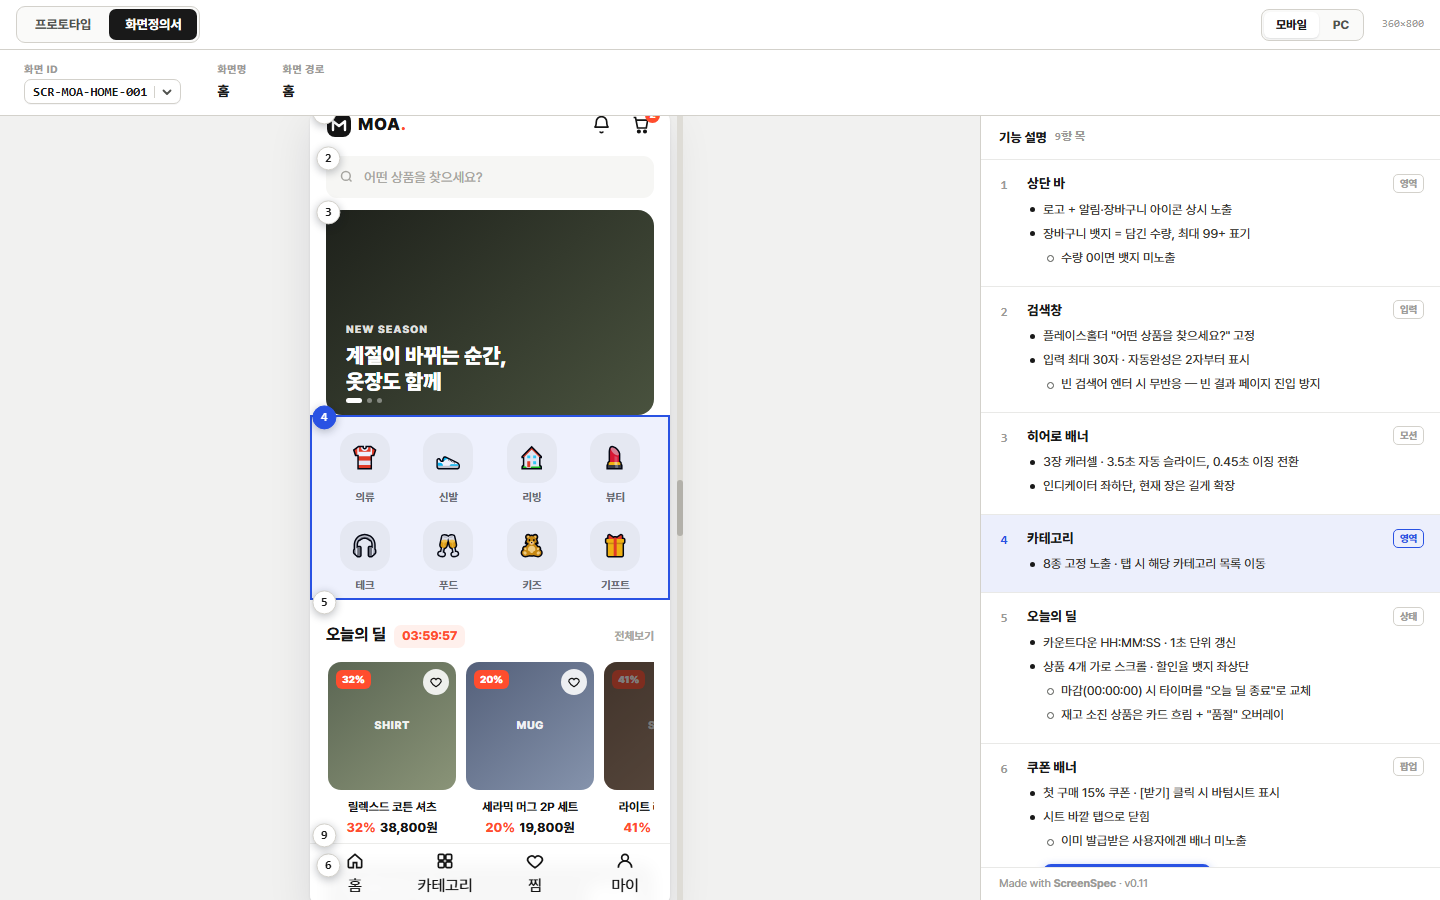
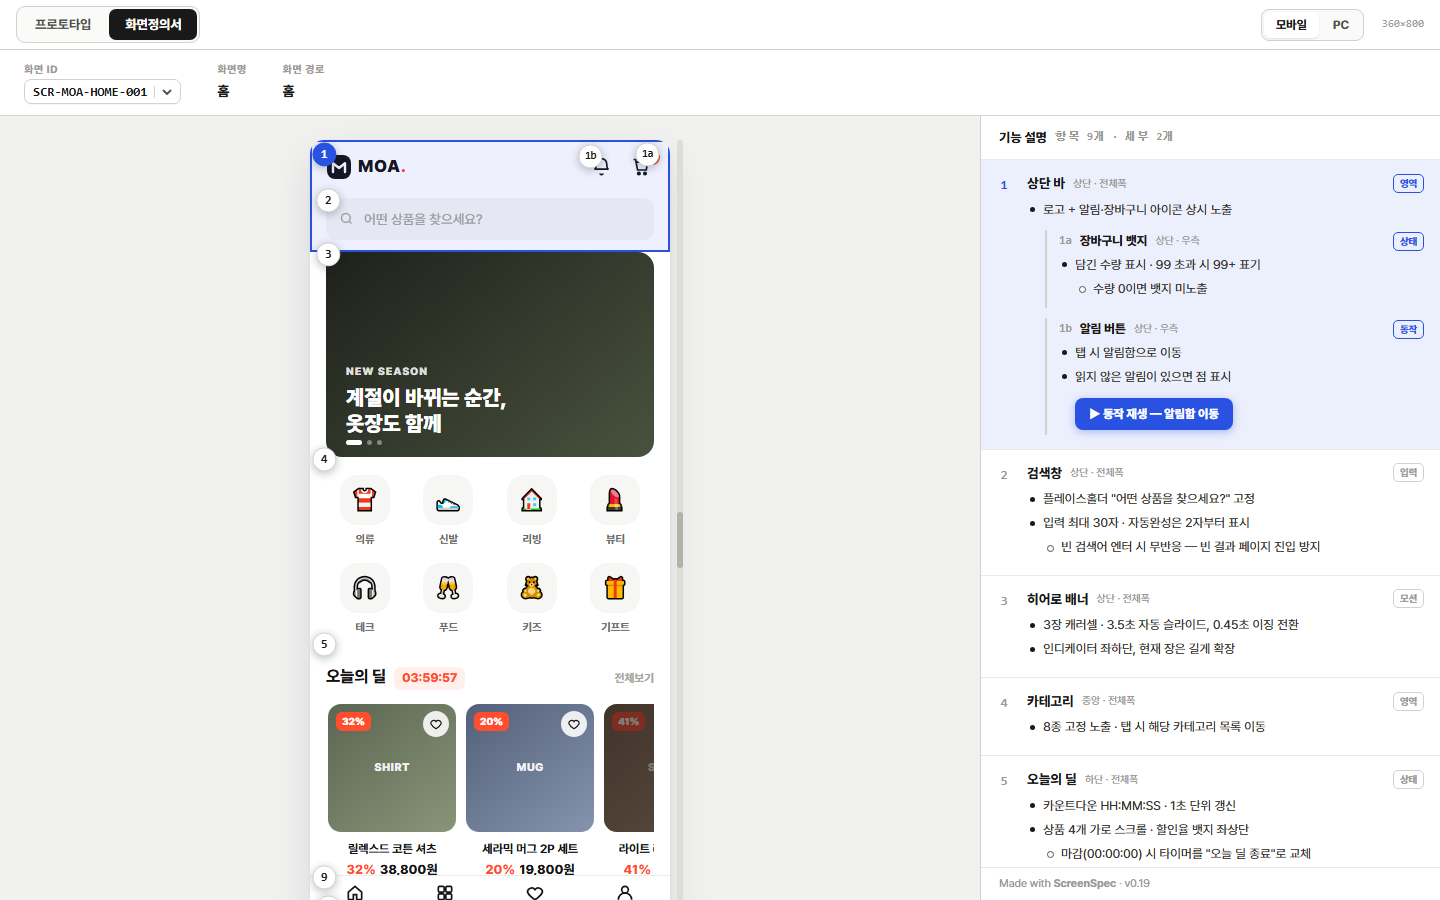
docs: v0.19.1 - README reorder (deliver/off after modes), preview in README+flagship demo, v0.19 screenshots, AGENTS release steps, lint stale terms + CRLF-safe Part gate

diff --git a/examples/shop.html b/examples/shop.html
@@ -363,6 +363,7 @@ setInterval(() => {
 /* 타임딜 카운트다운 */
 let remain = 3*3600 + 59*60 + 59;
 setInterval(() => {
+  if (dealClosed) return;
   remain = Math.max(0, remain - 1);
   const h = String(Math.floor(remain/3600)).padStart(2,"0");
   const m = String(Math.floor(remain%3600/60)).padStart(2,"0");
@@ -414,16 +415,29 @@ document.getElementById("optRow").addEventListener("click",(e)=>{
   o.classList.add("on");
 });
 document.getElementById("buyBtn").onclick = ()=>toast("장바구니에 담았어요 · 2개");
+
+/* ScreenSpec preview — 정의서의 스위치가 이 상태를 실물로 재현한다 */
+let dealClosed = false;
+addEventListener("screenspec:preview", (e) => {
+  if (String(e.detail.n) !== "5") return;   /* n 은 라벨 문자열 — 하위 요소면 "1a" 같은 값 */
+  e.detail.handled = true;
+  dealClosed = e.detail.on;
+  document.getElementById("timer").textContent = dealClosed ? "오늘 딜 종료" : "03:59:59";
+  if (!dealClosed) remain = 3*3600 + 59*60 + 59;
+});
 </script>
 
 <!-- ==================== ScreenSpec 적용 ==================== -->
 <script>
 window.SCREENSPEC = {
   mode: "wrap",
+  checklist: ["빈 상태", "오류"],   /* 이 프로젝트가 화면마다 챙기기로 한 상태 축 */
   screens: [
     {
       id: "SCR-MOA-HOME-001", name: "홈", path: ["홈"],
       root: '[data-ss-screen="SCR-MOA-HOME-001"]',
+      covers: ["빈 상태"],                       /* 딜 마감·품절을 5번 항목에 적었다 */
+      skip: { "오류": "홈은 정적 구성이라 서버 오류 분기가 없음 — 오류는 상세(PDP)에서 다룬다" },
       specs: [
         { n:1, target:"1", anno:"box", title:"상단 바", defs:[
           { t:"로고 + 알림·장바구니 아이콘 상시 노출" }],
@@ -444,7 +458,7 @@ window.SCREENSPEC = {
           { t:"인디케이터 좌하단, 현재 장은 길게 확장" }]},
         { n:4, target:"4", anno:"box", title:"카테고리", defs:[
           { t:"8종 고정 노출 · 탭 시 해당 카테고리 목록 이동" }]},
-        { n:5, target:"5", anno:"state", title:"오늘의 딜", defs:[
+        { n:5, target:"5", anno:"state", title:"오늘의 딜", preview:{ label:"딜 마감 상태 보기" }, defs:[
           { t:"카운트다운 HH:MM:SS · 1초 단위 갱신" },
           { t:"상품 4개 가로 스크롤 · 할인율 뱃지 좌상단", subs:[
             "마감(00:00:00) 시 타이머를 \"오늘 딜 종료\"로 교체",

diff --git a/tests/lint.js b/tests/lint.js
@@ -96,7 +96,7 @@ check("LICENSE 존재", fs.existsSync(path.join(REPO, "LICENSE")));
 
 /* 7) 문서 드리프트 — 폐기된 설계의 용어·클래스가 살아 있으면 에이전트가 옛 구조를 믿는다 */
 {
-  const STALE = /커맨드 팔레트|브레드크럼|섹션 라벨|centerOf|ss-toc-(sec|crumb|main)|private이므로|SpecLayer(?![^\n]*(별칭|alias|호환|legacy))/g;
+  const STALE = /커맨드 팔레트|브레드크럼|섹션 라벨|centerOf|ss-toc-(sec|crumb|main)|private이므로|panel:\s*"left"(?![^\n]*(폐기|deprecated))|상위 \d+ · 하위|패널 ⇄|SpecLayer(?![^\n]*(별칭|alias|호환|legacy))/g;
   for (const f of ["README.md", "SKILL.md", "screenspec.js"]) {
     const d = fs.readFileSync(path.join(REPO, f), "utf8");
     const hits = [...d.matchAll(STALE)].map((m) => m[0]);
@@ -174,7 +174,7 @@ check("LICENSE 존재", fs.existsSync(path.join(REPO, "LICENSE")));
   const want = spec.filter((f) => f !== "n" && f !== "parts");
   const missType = want.filter((f) => !part.includes(f));
   check("Part 타입에 Spec 필드 전부 (" + want.length + "개)", missType.length === 0, "누락: " + JSON.stringify(missType));
-  const sec = (ref.split(/\n### Part\n/)[1] || "").split(/\n## /)[0];
+  const sec = (ref.split(/\r?\n### Part\r?\n/)[1] || "").split(/\r?\n## /)[0];
   check("### Part 절 존재", sec.length > 100, String(sec.length));
   const missRow = want.filter((f) => !sec.includes("`" + f + "`"));
   check("### Part 표에 Spec 필드 전부", missRow.length === 0, "누락: " + JSON.stringify(missRow));

diff --git a/SKILL.md b/SKILL.md
@@ -92,7 +92,7 @@ Next.js 등 프레임워크 기반이면 화면을 감싸지 않는 오버레이
 import Script from "next/script";
 // <body> 안:
 <Script id="screenspec-config" strategy="afterInteractive">{`window.SCREENSPEC = {...}`}</Script>
-<Script src="https://cdn.jsdelivr.net/gh/charmisuk/screenspec@v0.19.0/screenspec.js" strategy="afterInteractive" />
+<Script src="https://cdn.jsdelivr.net/gh/charmisuk/screenspec@v0.19.1/screenspec.js" strategy="afterInteractive" />
 ```
 
 - `data-spec` 속성은 JSX 요소에 그대로 (`data-spec="1"`)
@@ -336,7 +336,7 @@ addEventListener("screenspec:preview", (e) => {
 - [ ] `data-spec` 없는 specs 항목 없음 (마커가 숨겨지면 이것)
 - [ ] 각 화면에 빈 상태·로딩·오류를 적었는가 (해당 없으면 «없음» 을 명시했는가) — 보이는 것에만 마커를 달게 되므로 안 보이는 상태는 의식적으로 묻는다 (`checklist` 를 쓰면 목차의 ⚠ 가 0이 될 때까지)
 - [ ] 헤더의 화면 ID 칩 클릭 → 화면 목록 트리가 path 계층대로 열림 (그룹 행·뎁스 확인)
-- [ ] `preview` 를 준 항목마다 프로토타입에 `screenspec:preview` 리스너를 심었는가 (◑ 버튼을 눌러 실제로 상태가 바뀌는지 — 「만들지 못합니다」가 뜨면 리스너가 없는 것)
+- [ ] `preview` 를 준 항목마다 프로토타입에 `screenspec:preview` 리스너를 심었는가 (preview 스위치를 켜서 실제로 상태가 바뀌는지 — 「만들지 못합니다」가 뜨면 리스너가 없는 것)
 - [ ] arrow 항목 클릭 시 지시선이 대상 요소를 실제로 가리킴 (큰 영역에 arrow를 쓰지 않았는지)
 - [ ] accent를 지정했다면 마커·하이라이트·버튼 색이 함께 바뀌었는지
 - [ ] 전달할 결과물이면 `.inline.html`을 뽑았는지 (명령이 "검증 통과"를 출력했는지)

diff --git a/CHANGELOG.md b/CHANGELOG.md
@@ -1,5 +1,15 @@
 # Changelog
 
+## v0.19.1 (2026-08-24)
+
+문서·예제 정비 (라이브러리 동작 변화 없음).
+
+- **README 재배치** — 「만든 뒤 — 전달과 공개」를 모드·문법 소개 **뒤**로 (처음 읽는 사람이 `screens`도 모른 채 off·inline 을 만나던 순서 문제). 자주 막히는 곳 13행 → 10행(증상 중복 병합)
+- **preview 를 README 에** — 특징 불릿 + 실무 문법 표. v0.18 대표 기능인데 첫 화면에 0회 등장했다
+- **대표 데모(shop)가 v0.16~v0.18 문법을 실제로 시연** — `checklist`+`covers`/`skip`(홈은 완비, 상세는 ⚠ 미정의 배지), 「딜 마감 상태 보기」 preview 스위치(앱 리스너 포함). 빠른 시작 예제에 `why` 한 줄
+- 스크린샷 3장 v0.19 UI 로 재촬영 (기존 v0.11 시점) · AGENTS 릴리스 절차에 smoke·`gh release create` · SKILL 의 폐기 기호 ◑ 문구 정리
+- lint: 폐기 어휘 추가(`panel:"left"`·「상위 N · 하위 M」·「패널 ⇄」) · `### Part` 검사 CRLF 체크아웃 대응
+
 ## v0.19.0 (2026-08-24)
 
 v0.18 을 실제로 붙여 본 리포트 3건(#29·#30·#31) — 전부 «동작은 맞는데 뜻이 안 읽힌다» 계열이다.
